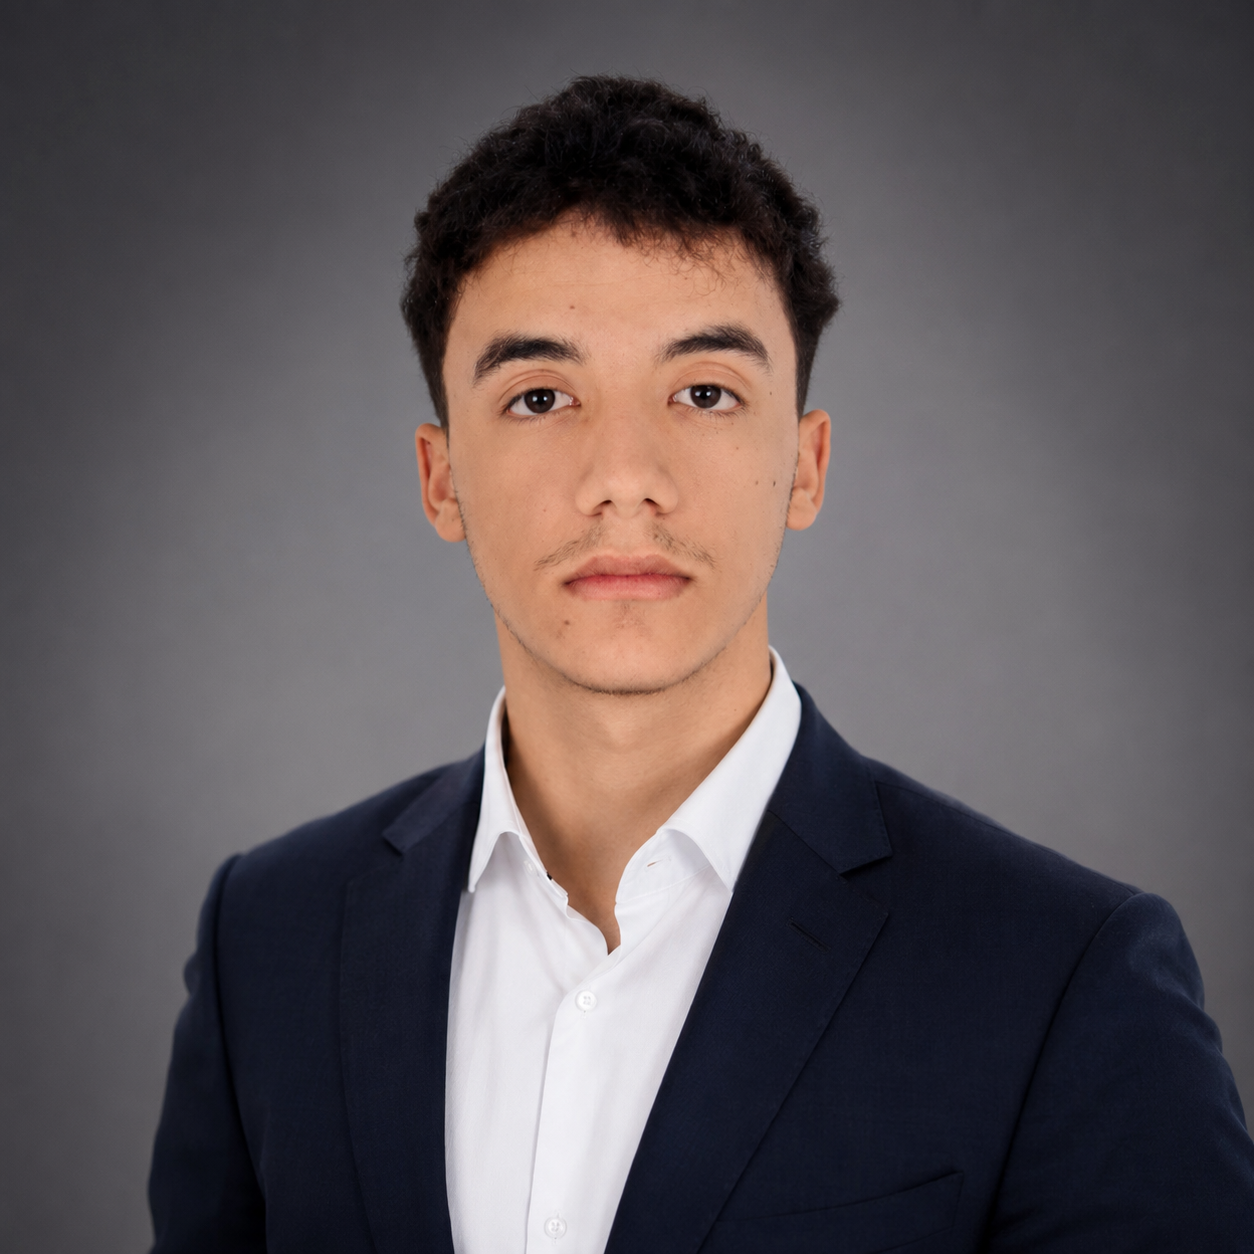
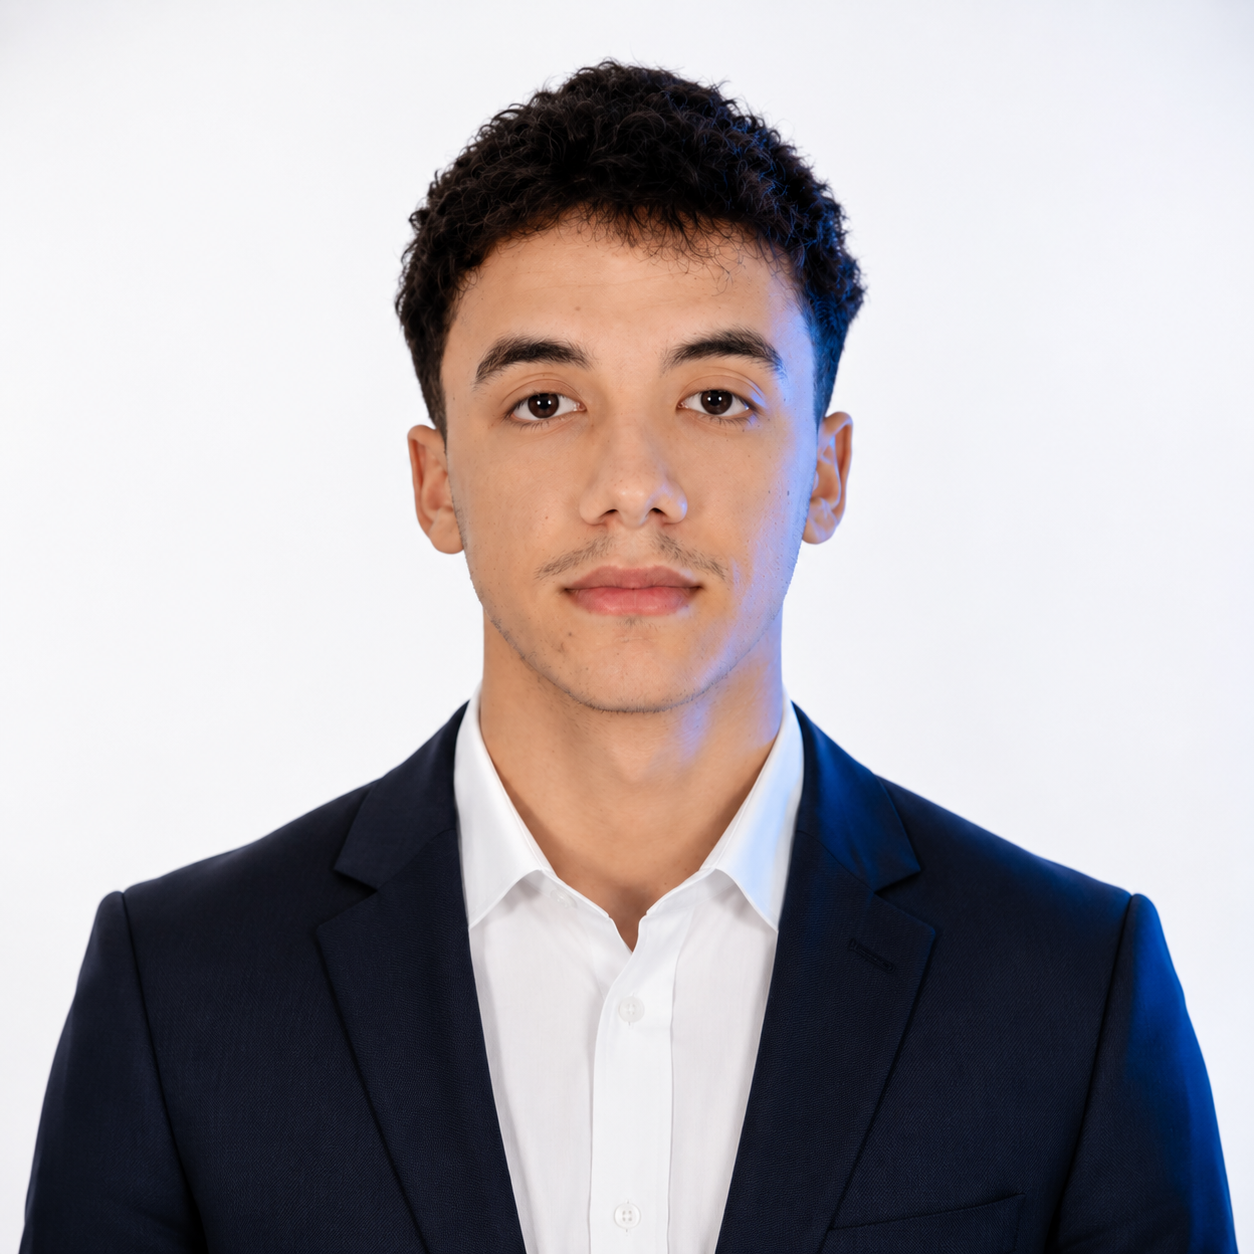
Update homepage

diff --git a/style.css b/style.css
@@ -202,11 +202,12 @@ header{
     height: 320px;
     overflow: hidden;
     border-radius: 16px;
-    box-shadow: 0 10px 30px rgba(0, 0, 0, 0.08);
+    box-shadow: 0 15px 30px rgba(0, 0, 0, 0.3);
     transition: 0.3s;
 }
 .about-img:hover{
     transform: scale(1.05);
+    box-shadow: 0 15px 30px rgba(0, 0, 0, 0.5);
 }
 .about-img img {
     object-fit: cover;
